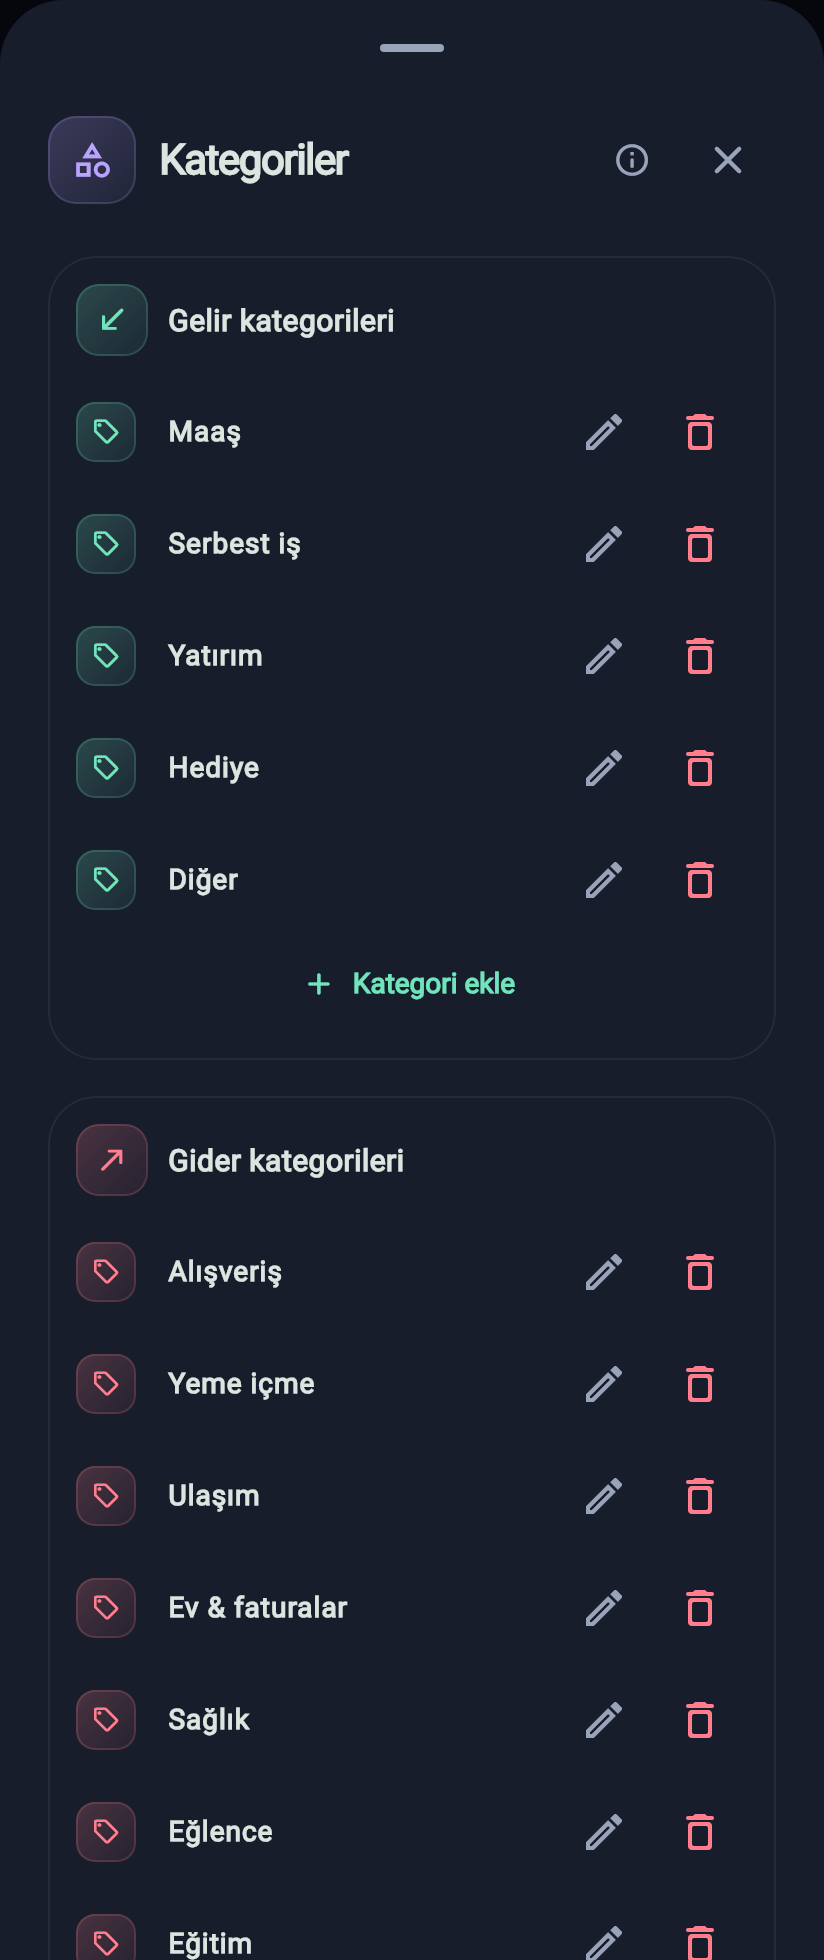
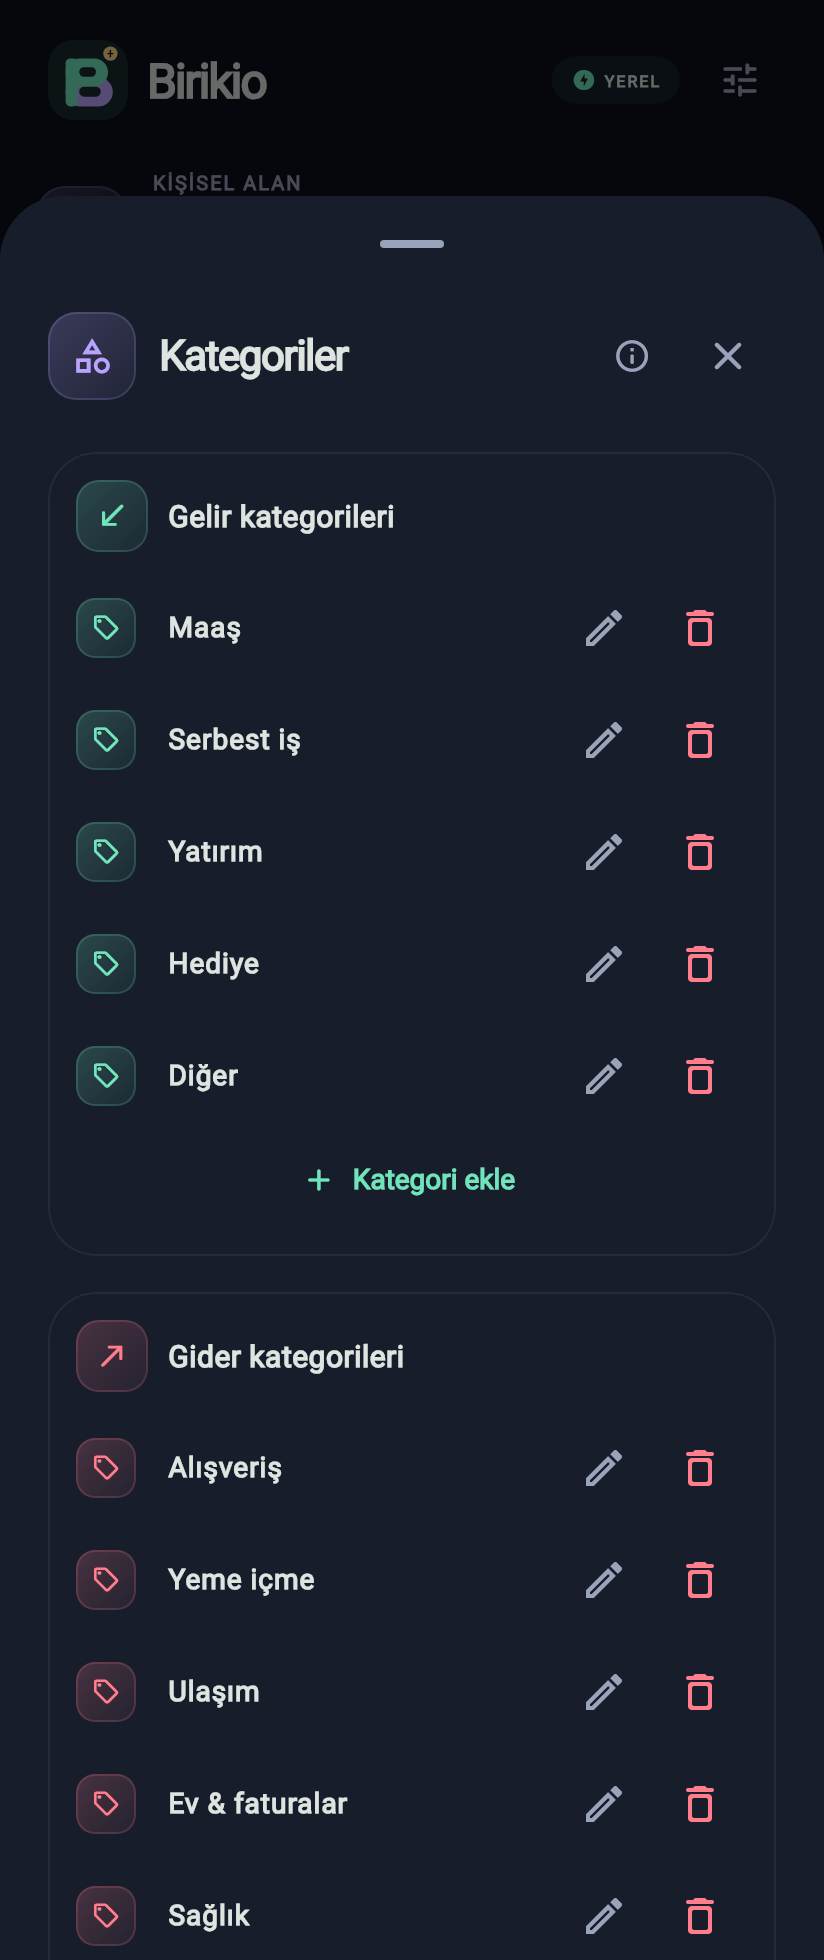
Size record detail sheets to content and scroll long notes

diff --git a/test/adaptive_details_test.dart b/test/adaptive_details_test.dart
@@ -1,0 +1,62 @@
+import 'package:birikio/data/store.dart';
+import 'package:birikio/ui/app.dart';
+import 'package:flutter/material.dart';
+import 'package:flutter_test/flutter_test.dart';
+
+void main() {
+  testWidgets('regular details shrink to content and scroll long notes', (
+    tester,
+  ) async {
+    tester.view.physicalSize = const Size(390, 844);
+    tester.view.devicePixelRatio = 1;
+    addTearDown(tester.view.resetPhysicalSize);
+    addTearDown(tester.view.resetDevicePixelRatio);
+    final now = DateTime.now();
+    final store = FinanceStore(read: () async => null, write: (_) async {})
+      ..motion = false;
+    final rule = RepeatRule(
+      id: 'r',
+      title: 'Abim',
+      amount: 300000,
+      income: true,
+      start: DateTime(now.year, now.month, 28),
+      category: 'Diğer',
+      frequency: 3,
+    );
+    store.rules.add(rule);
+    await tester.pumpWidget(BirikioApp(store: store));
+    await tester.tap(find.text('Gelir & Gider').last);
+    await tester.pumpAndSettle();
+    await tester.ensureVisible(find.text('Abim'));
+    await tester.pumpAndSettle();
+    await tester.tap(find.text('Abim'));
+    await tester.pumpAndSettle();
+    expect(tester.getSize(find.byType(BottomSheet)).height, lessThan(400));
+    await tester.tap(find.text('Durdur'));
+    await tester.pumpAndSettle();
+    expect(find.text('Sürdür'), findsOneWidget);
+    await tester.tap(find.text('Sürdür'));
+    await tester.pumpAndSettle();
+    await store.change(
+      () => rule.note = List.filled(100, 'Uzun açıklama satırı.').join('\n'),
+    );
+    await tester.pumpAndSettle();
+    expect(tester.getSize(find.byType(BottomSheet)).height, lessThan(844));
+    expect(
+      find.descendant(
+        of: find.byType(BottomSheet),
+        matching: find.byType(SingleChildScrollView),
+      ),
+      findsOneWidget,
+    );
+    await tester.drag(
+      find.descendant(
+        of: find.byType(BottomSheet),
+        matching: find.byType(SingleChildScrollView),
+      ),
+      const Offset(0, -300),
+    );
+    await tester.pumpAndSettle();
+    expect(tester.takeException(), isNull);
+  });
+}

diff --git a/lib/ui/app.dart b/lib/ui/app.dart
@@ -2616,9 +2616,27 @@ class _HomeShellState extends State<HomeShell> with WidgetsBindingObserver {
           ? () => setState(() => entryView = 1)
           : () => sheet<void>(
               context,
-              Padding(
-                padding: const EdgeInsets.all(16),
-                child: rule.isBill ? billCard(rule) : regularRecordCard(rule),
+              ListenableBuilder(
+                listenable: s,
+                builder: (context, _) => SingleChildScrollView(
+                  padding: EdgeInsets.fromLTRB(
+                    16,
+                    0,
+                    16,
+                    MediaQuery.viewInsetsOf(context).bottom + 16,
+                  ),
+                  child: Column(
+                    mainAxisSize: MainAxisSize.min,
+                    crossAxisAlignment: CrossAxisAlignment.stretch,
+                    children: [
+                      rule.isBill ? billCard(rule) : regularRecordCard(rule),
+                      if (rule.note.trim().isNotEmpty) ...[
+                        const SizedBox(height: 8),
+                        Text(rule.note),
+                      ],
+                    ],
+                  ),
+                ),
               ),
             ),
     );
@@ -2713,6 +2731,7 @@ class _HomeShellState extends State<HomeShell> with WidgetsBindingObserver {
     child: Panel(
       padding: const EdgeInsets.all(16),
       child: Column(
+        mainAxisSize: MainAxisSize.min,
         crossAxisAlignment: CrossAxisAlignment.start,
         children: [
           Row(
@@ -2815,6 +2834,7 @@ class _HomeShellState extends State<HomeShell> with WidgetsBindingObserver {
       padding: const EdgeInsets.only(bottom: 10),
       child: Panel(
         child: Column(
+          mainAxisSize: MainAxisSize.min,
           crossAxisAlignment: CrossAxisAlignment.start,
           children: [
             Row(

diff --git a/tools/capture_readme.dart b/tools/capture_readme.dart
@@ -259,6 +259,11 @@ void main() {
     await tester.ensureVisible(find.text('Düzenli maaş'));
     await tester.pumpAndSettle();
     await capture('monthly-pending');
+    await tester.tap(find.text('Düzenli maaş'));
+    await tester.pumpAndSettle();
+    await capture('regular-detail');
+    await tester.tapAt(const Offset(10, 50));
+    await tester.pumpAndSettle();
     await tester.ensureVisible(find.text('Giderler'));
     await tester.pumpAndSettle();
     await tester.tap(find.text('Giderler'));

diff --git a/lib/ui/forms.dart b/lib/ui/forms.dart
@@ -17,7 +17,10 @@ Future<T?> sheet<T>(BuildContext context, Widget child) =>
               duration: Duration(milliseconds: 320),
               reverseDuration: Duration(milliseconds: 220),
             ),
-      constraints: const BoxConstraints(maxWidth: 640),
+      constraints: BoxConstraints(
+        maxWidth: 640,
+        maxHeight: MediaQuery.sizeOf(context).height * .9,
+      ),
       builder: (_) => child,
     );
 Future<bool> confirm(

diff --git a/README.md b/README.md
@@ -36,6 +36,8 @@ Anasayfada kullanılabilir bakiyeyi, bu ayın gelir ve giderini ve birikim hedef
 
 ### 2. Gelir ve giderlerini kaydet
 
+İşlem ve düzenli kayıt detayları içeriği kadar yükseklikte açılır. Açıklama varsa gösterilir; uzun açıklama kaydırılır. Düzenli kayıttaki durdur/sürdür işlemi açık pencerede anında güncellenir. Uzun formlarda içerik kaydırılır ve klavye için alt boşluk bırakılır.
+
 Aylık özet tek kartta iki sütundur: gelir ve giderin gerçekleşen tutarı, hemen altında aynı dönemin bekleyen tutarı yer alır. Liste filtreleri bu dönem özetini değiştirmez. Kartların iç boşlukları ve boş durum görselleri küçültüldü; daha fazla içerik aynı ekrana sığar.
 
 Alttaki **+** düğmesi gelir, gider ve birikim hedefi ekleme akışlarını açar. Gelir & Gider ekranında **Kayıtlar / Yıllık radar / Düzenli** görünümlerine doğrudan geçersin. Kayıtlarda oklarla ay değiştirir veya **Tüm kayıtları göster** ile bütün geçmişi açarsın. Düzenli görünümü bütün serileri listeler. Yeni kayıt eklenince kaydın ayı açılır ve önceki arama/filtreler temizlenir. Kategori, tarih, tutar ve tekrar durumuyla ayrıca filtreleyebilirsin. Tutar yazarken binlik gruplar otomatik noktayla ayrılır.
@@ -48,6 +50,8 @@ Alttaki **+** düğmesi gelir, gider ve birikim hedefi ekleme akışlarını aç
 </table>
 
 ### 3. İleri tarihli gideri veya düzenli ödemeyi planla
+
+<p align="center"><img src="docs/images/regular-detail.png" alt="İçeriği kadar yükseklikte açılan düzenli kayıt detayı" width="310" /></p>
 
 <p align="center"><img src="docs/images/monthly-pending.png" alt="Seçili ayda düzenli beklenen gelir ve yaklaşan durum etiketi" width="310" /></p>
 
@@ -198,7 +202,7 @@ pwsh -File tools/build_update_apk.ps1
 
 Betik analiz ve testlerden sonra release APK'sini derler; aynı özel anahtarla imzalar ve paket kimliği, sürüm kodu ile sertifika parmak izini doğrulamadan masaüstüne kopyalamaz. Son teslim kodunu `tools/update_identity.json` içinde günceller; bu dosyayı da değişikliklerle birlikte commit et. Eski anahtar `~/.android/debug.keystore` konumunda bulunmalıdır. Anahtarın güvenli bir çevrimdışı kopyasını sakla; **yeni debug anahtarı üretmek aynı imzayı sağlamaz**. Bu anahtarı repoya ekleme.
 
-Telefonunda önceki Birikio APK'si yüklüyse güncelleme için `com.bekirturgut.birikio` paket kimliği, **aynı imza sertifikası** ve daha yüksek `versionCode` gerekir. Son teslim `1.2.4+9` değerini kullanır. Kurmadan önce **Profil → Yedek oluştur**; APK'yi mevcut uygulamanın üzerine **Güncelle** ile kur. Kaldırma veya uygulama verilerini temizleme yerel kayıtları silebilir. İmza uyuşmazlığı yüzünden Android kaldırma isterse işlemi durdur ve yedeği al.
+Telefonunda önceki Birikio APK'si yüklüyse güncelleme için `com.bekirturgut.birikio` paket kimliği, **aynı imza sertifikası** ve daha yüksek `versionCode` gerekir. Son teslim `1.2.5+10` değerini kullanır. Kurmadan önce **Profil → Yedek oluştur**; APK'yi mevcut uygulamanın üzerine **Güncelle** ile kur. Kaldırma veya uygulama verilerini temizleme yerel kayıtları silebilir. İmza uyuşmazlığı yüzünden Android kaldırma isterse işlemi durdur ve yedeği al.
 
 > README görselleri Flutter widget testinde gerçek arayüz bileşenlerinden üretilir. iOS cihaz derlemesi henüz doğrulanmamıştır.
 
@@ -282,7 +286,7 @@ Testler; para ayrıştırma, ay sonu ve artık yıl davranışları, tekrarları
 
 ### Görselleri yeniden üretme
 
-README'deki 23 ekran görüntüsü uygulamanın gerçek bileşenlerinden, bellekte tutulan kurgu örnek verilerle üretilir. Kendi Flutter SDK yolunu ver:
+README'deki 24 ekran görüntüsü uygulamanın gerçek bileşenlerinden, bellekte tutulan kurgu örnek verilerle üretilir. Kendi Flutter SDK yolunu ver:
 
 ```sh
 flutter test tools/capture_readme.dart --dart-define=FLUTTER_SDK=C:/flutter
